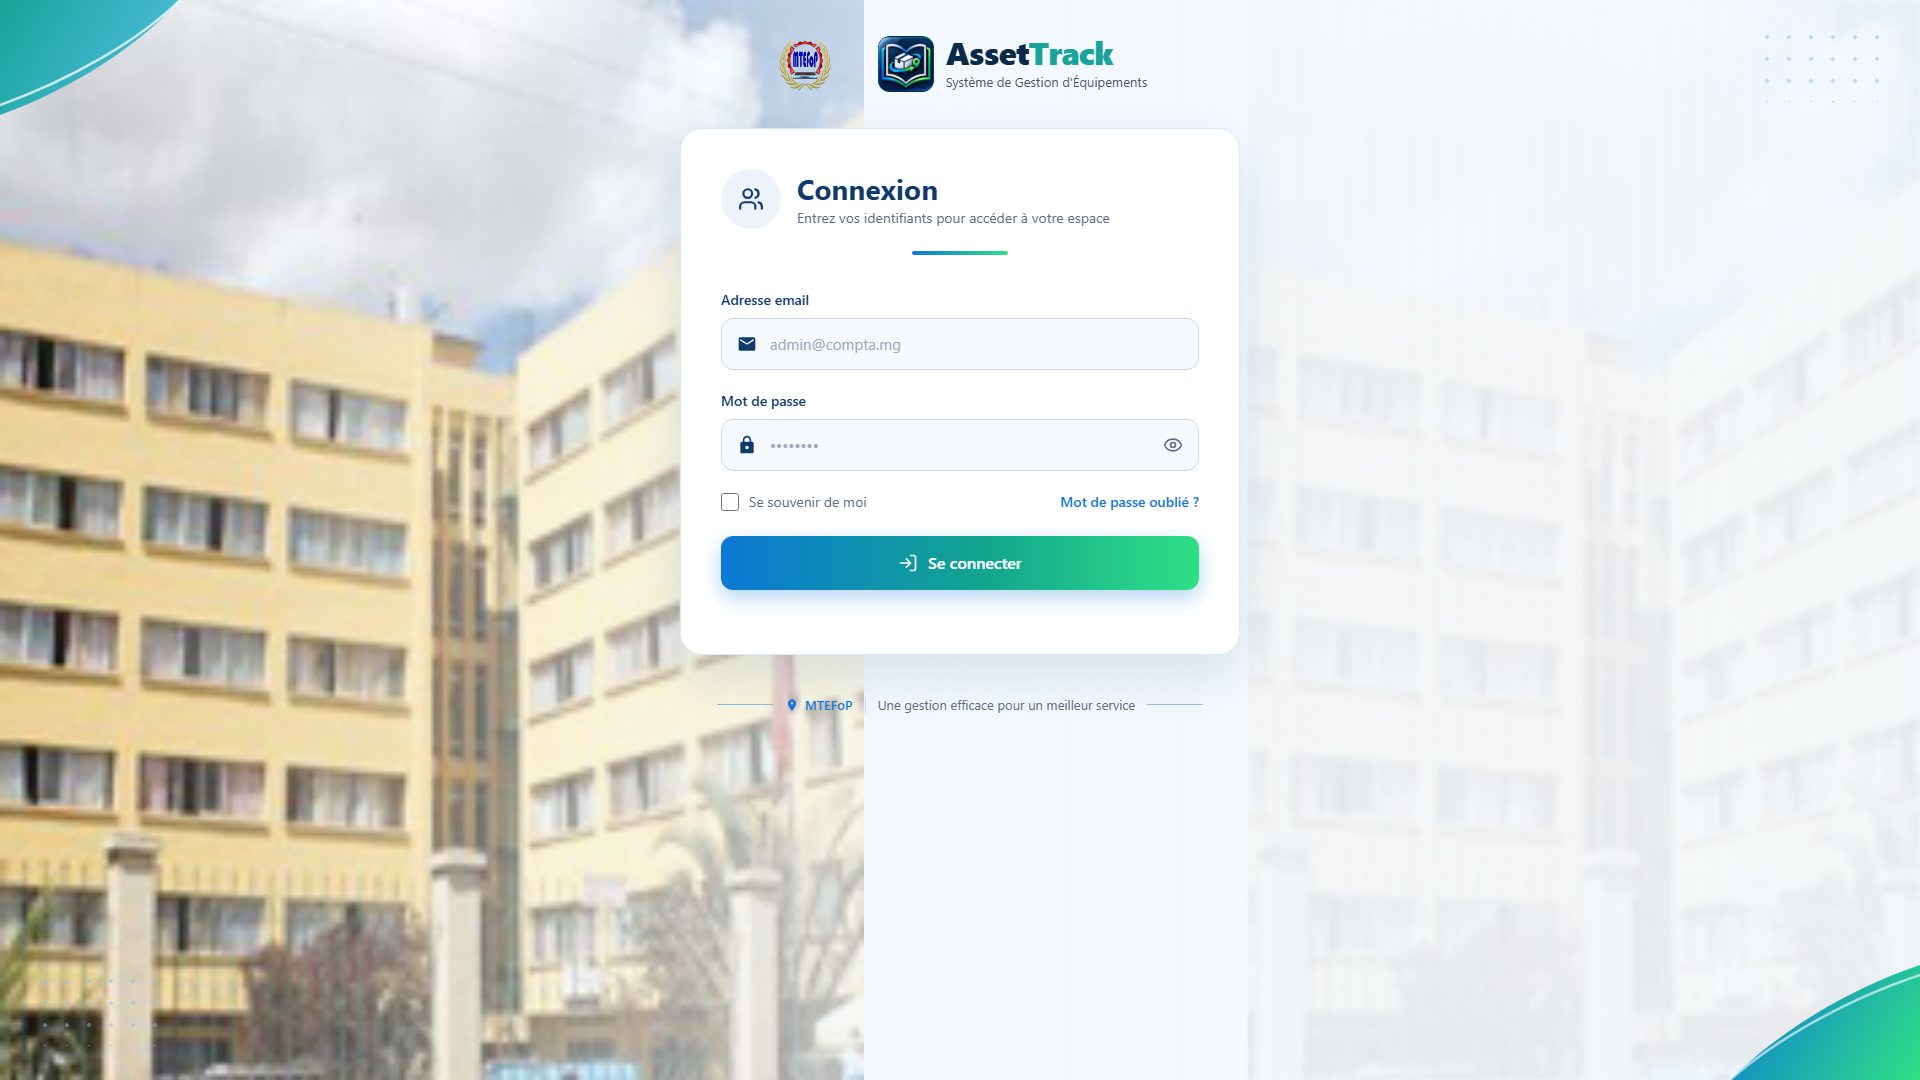
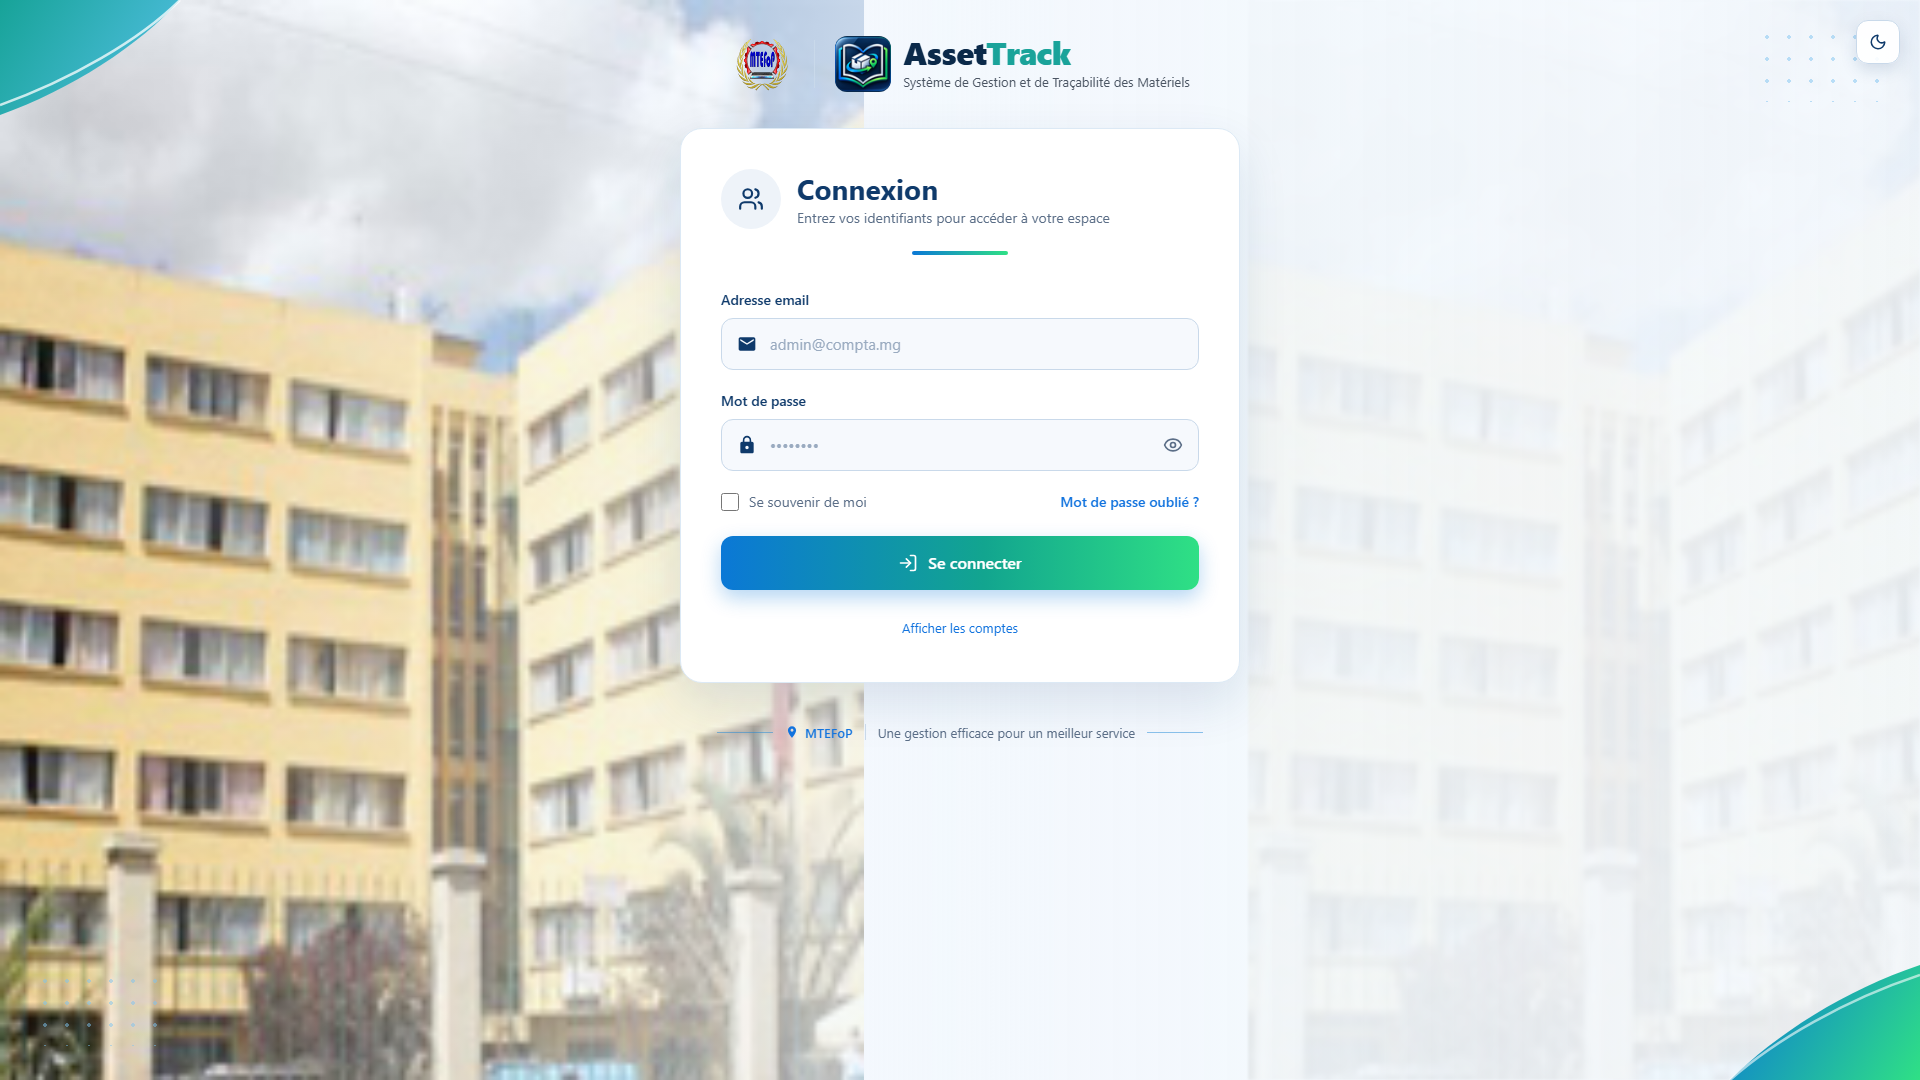
add darck mode login

Changed region(s): [[0.3438, 0.5806, 0.6562, 0.7028], [0.375, 0.0306, 0.625, 0.0917]]

diff --git a/frontend/src/components/LoginScreen.tsx b/frontend/src/components/LoginScreen.tsx
@@ -1,5 +1,5 @@
 import React, { useState } from "react";
-import { Eye, EyeOff, LogIn, Loader2, Users } from "lucide-react";
+import { Eye, EyeOff, LogIn, Loader2, Users, Sun, Moon } from "lucide-react";
 import { User as UserType } from "../App";
 import logoMtefop from "../../assets/LogoMETFOP.png";
 import logo from "../../assets/logo.png";
@@ -87,6 +87,24 @@ export function LoginScreen({ onLogin }: LoginScreenProps) {
   const [isLoading, setIsLoading] = useState(false);
   const [error, setError] = useState("");
   const [showDemoCredentials, setShowDemoCredentials] = useState(false);
+
+  // Thème : on applique immédiatement le choix enregistré (même clé « theme »
+  // que le bouton du tableau de bord) pour que connexion et application
+  // restent en cohérence. Défaut : mode clair si rien n'a encore été choisi.
+  const [isDark, setIsDark] = useState(() => {
+    const saved = localStorage.getItem("theme");
+    const prefersDark = window.matchMedia("(prefers-color-scheme: dark)").matches;
+    const dark = saved === "dark" || (saved === "system" && prefersDark);
+    document.documentElement.classList.toggle("dark", dark);
+    return dark;
+  });
+
+  const toggleTheme = () => {
+    const next = !isDark;
+    setIsDark(next);
+    document.documentElement.classList.toggle("dark", next);
+    localStorage.setItem("theme", next ? "dark" : "light");
+  };
 
   const handleSubmit = async (e: React.FormEvent) => {
     e.preventDefault();
@@ -276,6 +294,56 @@ export function LoginScreen({ onLogin }: LoginScreenProps) {
         .lg-footer-line { width: 56px; height: 1px; background: rgba(30,136,216,.5); }
         .lg-footer-sep { width: 1px; height: 16px; background: #c9d9ea; }
 
+        /* Bascule de thème clair / sombre */
+        .lg-toggle { position: fixed; top: 20px; right: 20px; z-index: 40;
+          width: 44px; height: 44px; border-radius: 12px;
+          display: flex; align-items: center; justify-content: center;
+          background: rgba(255,255,255,.9); border: 1px solid #c9d9ea;
+          color: #0f3a6b; cursor: pointer;
+          box-shadow: 0 6px 16px rgba(20,60,110,.15);
+          transition: transform .2s, background .2s, border-color .2s, color .2s; }
+        .lg-toggle:hover { transform: translateY(-1px); border-color: #1e88d8; color: #1e88d8; }
+        .lg-toggle:focus-visible { outline: 2px solid #1e88d8; outline-offset: 2px; }
+
+        /* ===== Mode sombre (jetons alignés sur la console « Nébuleuse ») ===== */
+        .dark .lg-page { background: #0d1929; }
+        .dark .lg-bg-left { filter: brightness(.5) saturate(.85); }
+        .dark .lg-bg-right { filter: blur(1px) brightness(.5); }
+        .dark .lg-veil { background: linear-gradient(90deg, rgba(13,25,41,0) 0%, rgba(13,25,41,.88) 55%, #0d1929 100%); }
+        .dark .lg-dots { opacity: .3; }
+        .dark .lg-sep { background: #2c4a6b; }
+        .dark .lg-brand-title { color: #eef5fc; }
+        .dark .lg-brand-sub { color: #9db3cc; }
+        .dark .lg-card { background: #132239; border-color: #27405f;
+          box-shadow: 0 20px 50px rgba(0,0,0,.45); }
+        .dark .lg-avatar { background: #1b3453; color: #7fc4ff; }
+        .dark .lg-title { color: #eef5fc; }
+        .dark .lg-sub { color: #9db3cc; }
+        .dark .lg-alert { background: #3a1418; border-color: #7f2a30; }
+        .dark .lg-alert span { color: #ff9d9d; }
+        .dark .lg-label { color: #dcebf9; }
+        .dark .lg-input { background: #0e1b2e; border-color: #2c4a6b; color: #e8f1fb; }
+        .dark .lg-input::placeholder { color: #5f7b99; }
+        .dark .lg-icon { color: #7fc4ff; }
+        .dark .lg-eye { color: #9db3cc; }
+        .dark .lg-remember span { color: #b6c8dc; }
+        .dark .lg-remember input { accent-color: #5aa9f0; }
+        .dark .lg-forgot { color: #5aa9f0; }
+        .dark .lg-btn:disabled { background: #2a3d55; color: #8fa3bd; }
+        .dark .lg-demo { color: #7d93ad; }
+        .dark .lg-demo-link { color: #5aa9f0; }
+        .dark .lg-account { background: #0f1e33; border-color: #27405f; }
+        .dark .lg-account:hover { background: #17304f; border-color: #5aa9f0; }
+        .dark .lg-account-name { color: #eef5fc; }
+        .dark .lg-account-dept { color: #9db3cc; }
+        .dark .lg-account-creds { color: #5aa9f0; }
+        .dark .lg-footer { color: #9db3cc; }
+        .dark .lg-footer-pin { color: #5aa9f0; }
+        .dark .lg-footer-line { background: rgba(90,169,240,.4); }
+        .dark .lg-footer-sep { background: #2c4a6b; }
+        .dark .lg-toggle { background: rgba(19,34,57,.9); border-color: #2c4a6b; color: #9fd4ff; }
+        .dark .lg-toggle:hover { border-color: #5aa9f0; color: #5aa9f0; }
+
         /* Responsive */
         @media (max-width: 640px) {
           .lg-bg { display: none; }
@@ -293,6 +361,17 @@ export function LoginScreen({ onLogin }: LoginScreenProps) {
         .lg-spin { animation: lg-rotate 1s linear infinite; }
         @keyframes lg-rotate { to { transform: rotate(360deg); } }
       `}</style>
+
+      {/* Bascule clair / sombre — coin supérieur droit */}
+      <button
+        type="button"
+        className="lg-toggle"
+        onClick={toggleTheme}
+        aria-label={isDark ? "Passer en mode clair" : "Passer en mode sombre"}
+        title={isDark ? "Mode clair" : "Mode sombre"}
+      >
+        {isDark ? <Sun size={18} aria-hidden="true" /> : <Moon size={18} aria-hidden="true" />}
+      </button>
 
       {/* ===== Arrière-plan ===== */}
       <img src={bgPhoto} alt="Bâtiment du Ministère" className="lg-bg lg-bg-left" />
@@ -338,7 +417,7 @@ export function LoginScreen({ onLogin }: LoginScreenProps) {
               <span className="lg-brand-title">
                 Asset<span className="lg-track">Track</span>
               </span>
-              <span className="lg-brand-sub">Système de Gestion d'Équipements</span>
+              <span className="lg-brand-sub">Système de Gestion et de Traçabilité des Matériels</span>
             </div>
           </div>
         </header>
